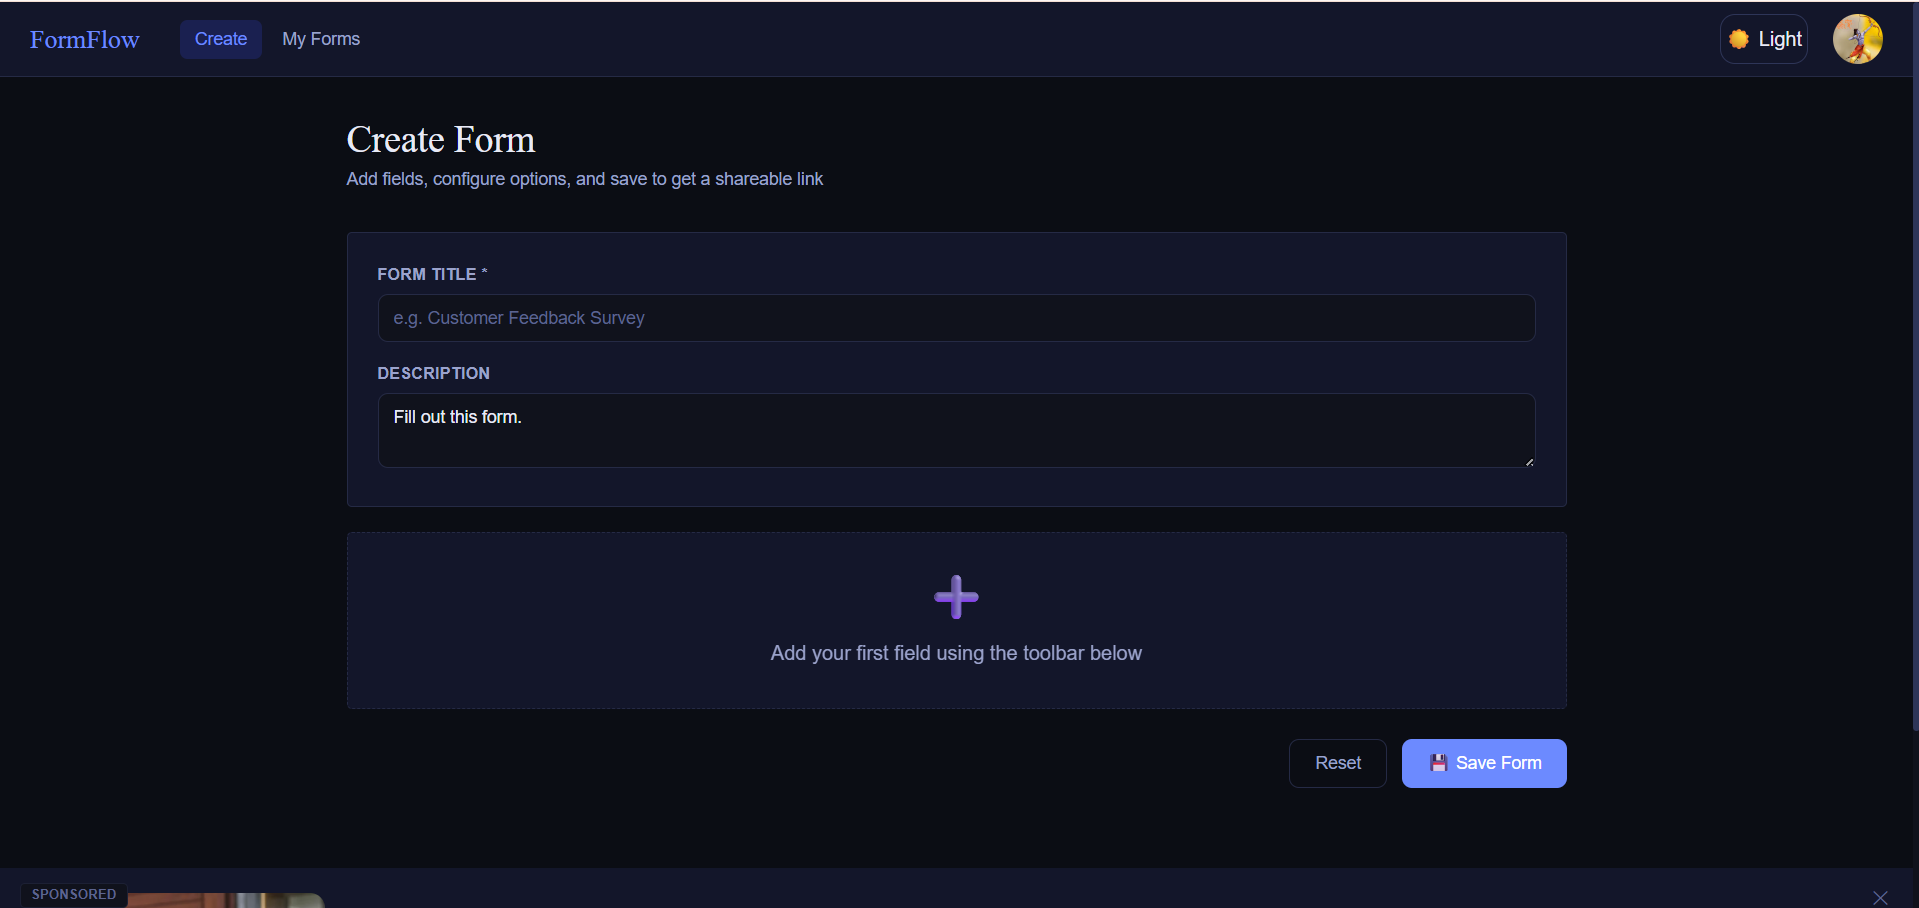
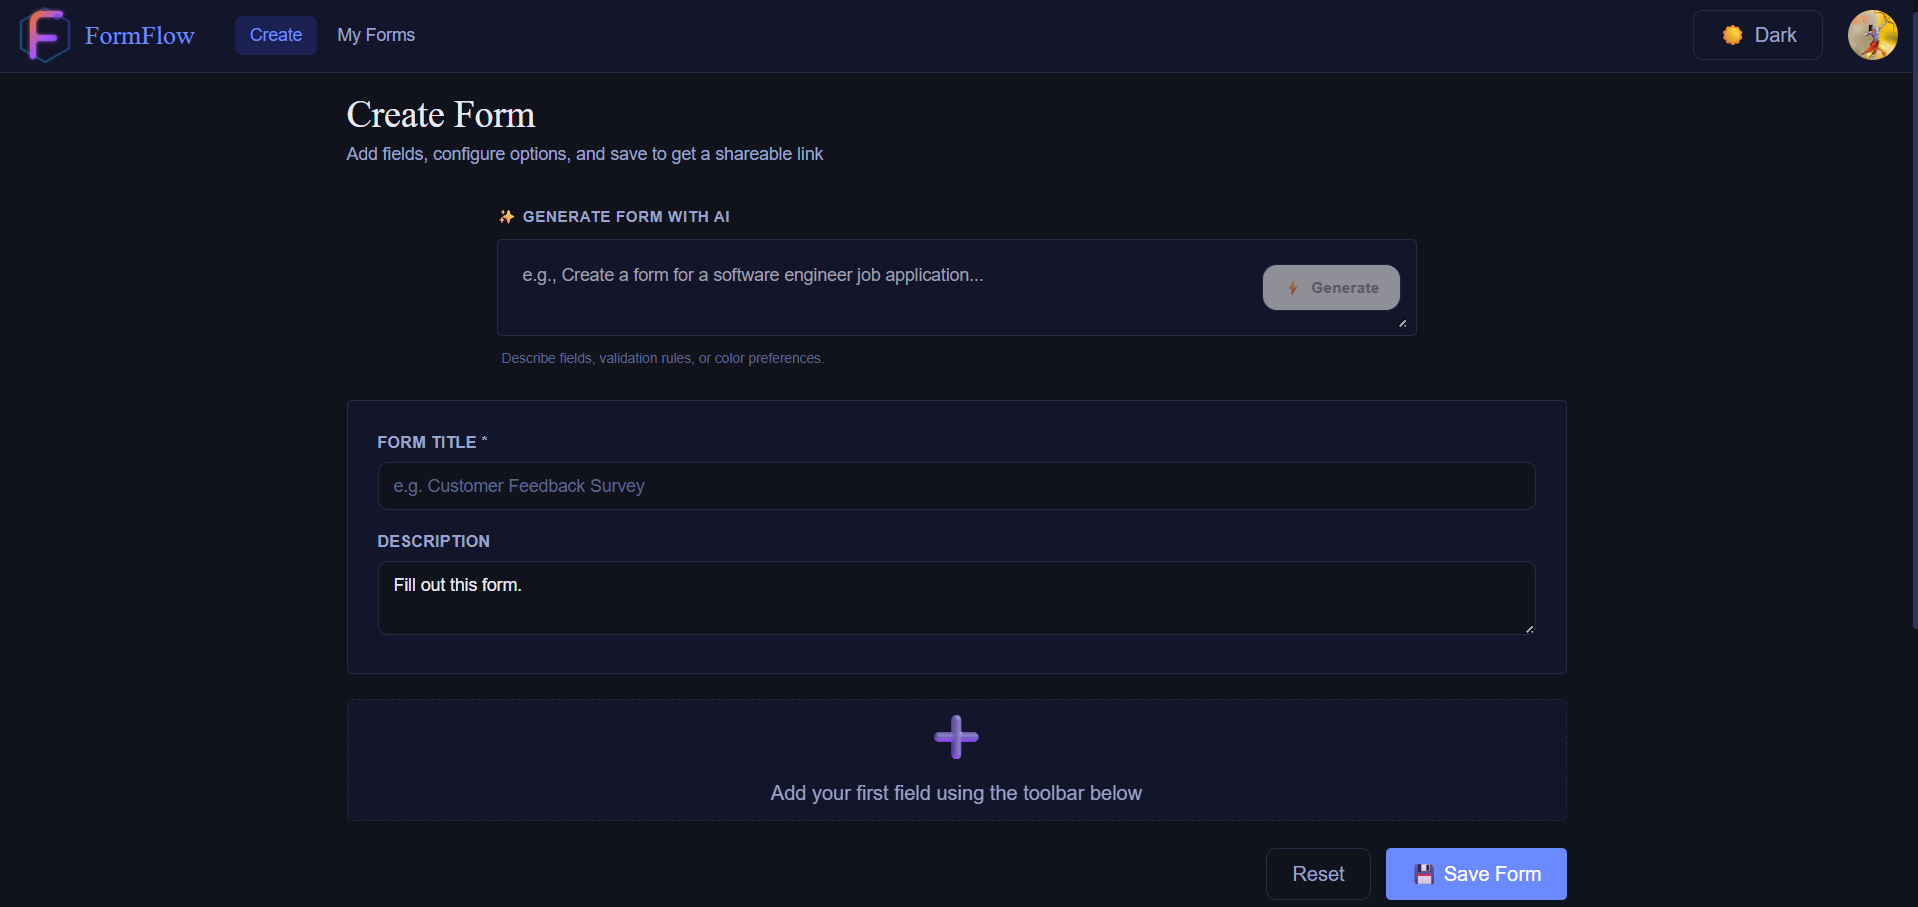
add images to homepage

diff --git a/src/pages/HomePage.jsx b/src/pages/HomePage.jsx
@@ -13,8 +13,7 @@ const EyeFace = lazy(() => import("../components/EyeFace"));
 
 export default function HomePage() {
   return (
-    <div className="grid gap-5">
-
+    <div className="grid gap-5 pt-4">
       {/* Hero Section */}
       <section className="text-center px-5">
         <div className="inline-flex items-center gap-2 bg-(--accent-light) text-(--accent) rounded-full px-4 py-1.2 text-xs font-semibold mb-6 tracking-widest">
@@ -61,7 +60,7 @@ export default function HomePage() {
       </section>
 
       {/* How it Works & Fields Section */}
-      <section className="mx-auto max-w-5xl px-6 py-8">
+      <section className="mx-auto max-w-5xl px-4 py-8">
         <h2 className="font-['DM_Serif_Display',serif] text-[clamp(1.6rem,4vw,2.2rem)] text-center text-(--text) mb-3">
           How it works
         </h2>
@@ -74,18 +73,21 @@ export default function HomePage() {
           {steps.map((step, i) => (
             <div
               key={i}
-              className="bg-(--surface) border border-(--border) flex-auto rounded-xl p-7 relative"
+              className="bg-(--surface) border border-(--border) flex-auto rounded p-7 relative"
             >
-              <div className="absolute top-4 right-4 text-xs font-bold text-(--text-3) font-['DM_Serif_Display',serif]">
-                0{i + 1}
+              <div>
+                <div className="absolute top-4 right-4 text-xs font-bold text-(--text-3) font-['DM_Serif_Display',serif]">
+                  0{i + 1}
+                </div>
+                <div className="text-3xl mb-4">{step.icon}</div>
+                <h3 className="text-base font-semibold text-(--text) mb-2.5">
+                  {step.title}
+                </h3>
+                <p className="text-(--text-2) text-[0.875rem] leading-relaxed m-0">
+                  {step.desc}
+                </p>
               </div>
-              <div className="text-3xl mb-4">{step.icon}</div>
-              <h3 className="text-base font-semibold text-(--text) mb-2.5">
-                {step.title}
-              </h3>
-              <p className="text-(--text-2) text-[0.875rem] leading-relaxed m-0">
-                {step.desc}
-              </p>
+              <img src={step.image} className="mt-3" alt={step.title} />
             </div>
           ))}
         </div>

diff --git a/src/components/FormAi.jsx b/src/components/FormAi.jsx
@@ -7,7 +7,7 @@ export default function () {
   const { addFormByAi, loading } = useFormBuilder();
 
   return (
-    <div className="w-full max-w-2xl mx-auto my-6 px-4">
+    <div className="w-full max-w-3xl mx-auto my-6 px-4">
       <div className="flex flex-col gap-2.5">
         {/* Label with a subtle AI sparkle icon */}
         <label
@@ -19,14 +19,14 @@ export default function () {
 
         {/* Unified Input + Button Container */}
         <div
-          className={`relative flex items-center bg-(--surface) border rounded-2xl p-1.5 transition-all duration-300 shadow-xs focus-within:border-(--accent) focus-within:ring-4 focus-within:ring-(--accent)/10 ${
+          className={`relative flex items-center bg-(--surface) border rounded p-1.5 transition-all duration-300 shadow-xs focus-within:border-(--accent) focus-within:ring-4 focus-within:ring-(--accent)/10 ${
             loading
               ? "border-(--border) opacity-80 cursor-wait"
               : "border-(--border) hover:border-(--border-2)"
           }`}
         >
           {/* Search/Prompt Input Field */}
-          <input
+          <textarea
             id="prompt"
             type="text"
             readOnly={loading}
@@ -51,12 +51,12 @@ export default function () {
             {loading ? (
               <>
                 <span className="inline-block animate-spin text-xs">⏳</span>
-                <span>Building...</span>
+                <span className="hidden sm:block">Building...</span>
               </>
             ) : (
               <>
                 <span>⚡</span>
-                <span>Generate</span>
+                <span className="hidden sm:block">Generate</span>
               </>
             )}
           </button>

diff --git a/src/utils/data.js b/src/utils/data.js
@@ -4,16 +4,19 @@ export const steps = [
   {
     icon: "✏️",
     title: "Create a Form",
+    image: '/form-builder.png',
     desc: "Use the builder to add fields — text, dropdowns, checkboxes, dates, and more. Give your form a title and description.",
   },
   {
     icon: "🔗",
-    title: "Share the Link",
-    desc: "Each form gets a unique link. Share it with anyone — they can fill it from any device without needing an account.",
+    title: "Share the Form",
+    image: '/form-preview.png',
+    desc: "Each form gets a unique link. Share it with anyone — they can fill it from any device without needing an account. or download the QR",
   },
   {
     icon: "📊",
     title: "View Responses",
+    image: '/response-page.png',
     desc: "All submissions are collected in the Data page. Download them as a PDF with a single click.",
   },
 ];

diff --git a/src/components/QRButton.jsx b/src/components/QRButton.jsx
@@ -264,11 +264,11 @@ export default function QRButton({ formId }) {
     <button
       onClick={downloadQRCode}
       disabled={generating}
-      className="bg-(--surface) border border-(--border) text-(--text-2) hover:text-(--text) hover:border-(--accent)/30 px-4 py-2.5 rounded-xl text-xs font-semibold tracking-wide uppercase inline-flex items-center gap-2 transition-all duration-200 cursor-pointer disabled:opacity-50 disabled:cursor-wait active:scale-[0.97] shadow-xs hover:shadow-sm group"
+      className="rounded-full text-(--text-2) hover:text-(--text) items-center gap-2 transition-all duration-100 cursor-pointer disabled:opacity-50 disabled:cursor-wait active:scale-[0.97] group"
       title="Download shareable QR Card"
     >
-      <span className="text-sm transition-transform duration-300 group-hover:rotate-12 group-hover:scale-110">
-        {generating ? "⏳" : "𖣯"}
+      <span className="transition-all border border-(--border) p-3 rounded-2xl text-sm duration-100 hover:scale-110">
+        {generating ? "⏳" : "𖣯 Download QR"}
       </span>
     </button>
   );

diff --git a/src/pages/App.jsx b/src/pages/App.jsx
@@ -1,4 +1,4 @@
-import { Link, Outlet } from "react-router-dom";
+import { Link, Outlet, useLocation } from "react-router-dom";
 import ThemeButton from "../components/ThemeButton";
 import { features, steps } from "../utils/data.js";
 import { Toaster } from "react-hot-toast";
@@ -12,6 +12,8 @@ import Navbar from "../components/Navbar.jsx";
 
 export default function App() {
   const { set, loading, user } = useAuth();
+
+  const path = useLocation().pathname.split('/')[1];
 
   useEffect(() => {
     const unsubscribe = onAuthStateChanged(auth, (firebaseUser) => {
@@ -36,7 +38,7 @@ export default function App() {
     <>
       <Toaster position="top-center" />
       <main className="block no-scroll bg-(--bg-2)">
-        <Navbar />
+        {path !== 'view' ? <Navbar /> : ""}
 
         <Outlet />
       </main>

diff --git a/src/components/Feedback.jsx b/src/components/Feedback.jsx
@@ -1,7 +1,7 @@
 import { Link } from "react-router-dom"; // Use "next/link" if you are using Next.js
 
 export default function Feedback() {
-  const feedbackUrl = `${window.location.origin}/view/63XkBh1642VRBqyNVTII`
+  const feedbackUrl = `https://form-flow-ashen.vercel.app/view/63XkBh1642VRBqyNVTII`;
 
   return (
     <div className="w-full max-w-5xl mx-auto my-10 px-4 no-print">
@@ -12,7 +12,7 @@ export default function Feedback() {
 
         {/* Left Side: Scannable QR Code Panel */}
         <div className="flex flex-col items-center shrink-0 text-center select-none w-full max-w-2xl sm:max-w-none sm:w-auto">
-          <div className="w-40 h-40 p-2 rounded-lg border border-(--border)/40 flex items-center justify-center shadow-xs">
+          <div className="w-40 h-40 overflow-hidden p-2 rounded-lg border border-(--border)/40 flex items-center justify-center shadow-xs">
             <img 
               src='/feedback-qr.png' 
               alt="Scan for feedback form link" 